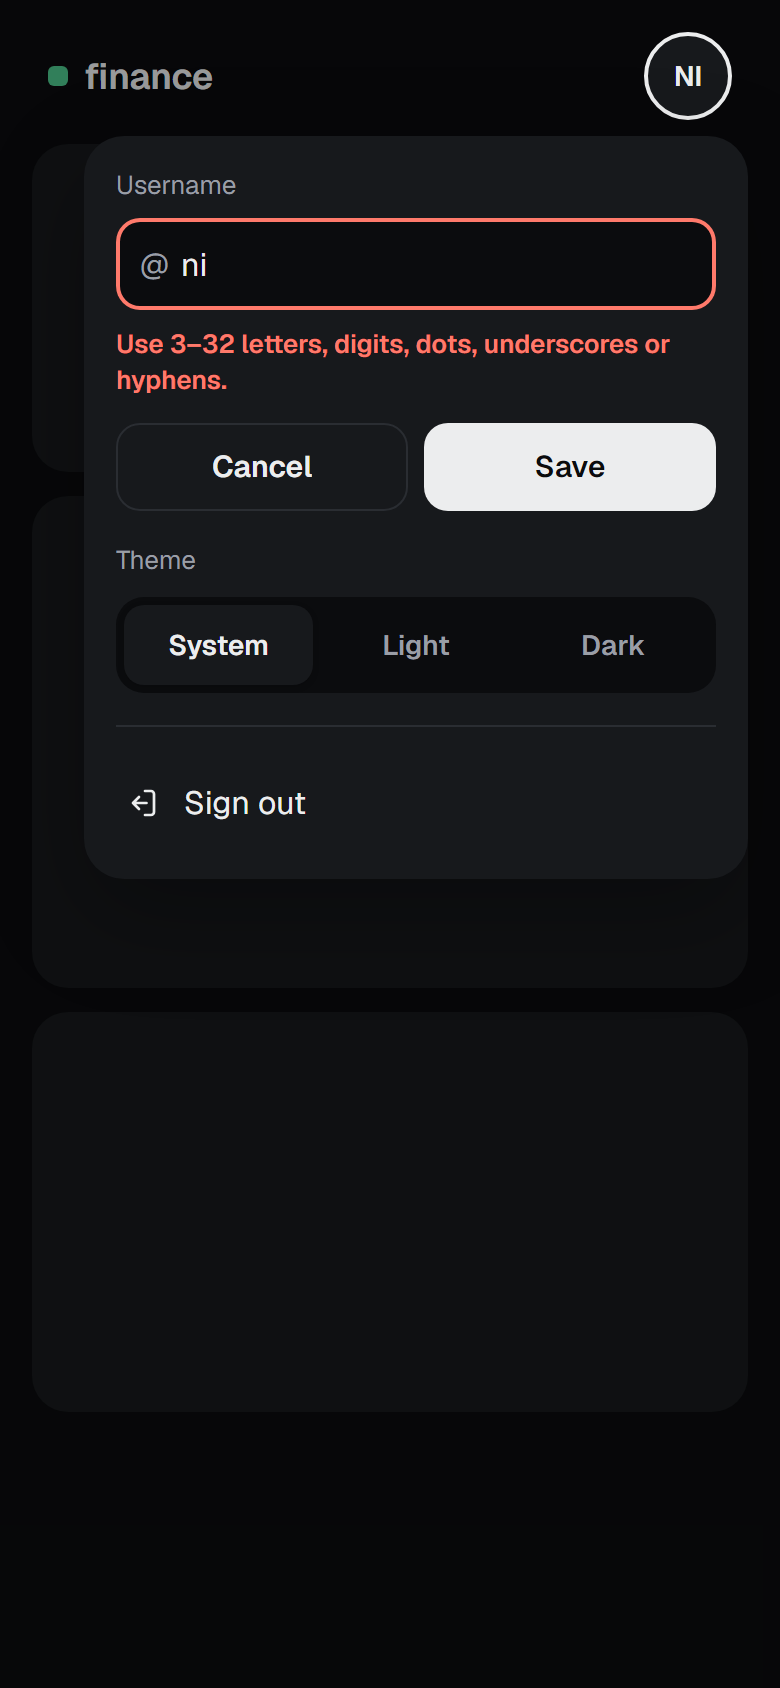
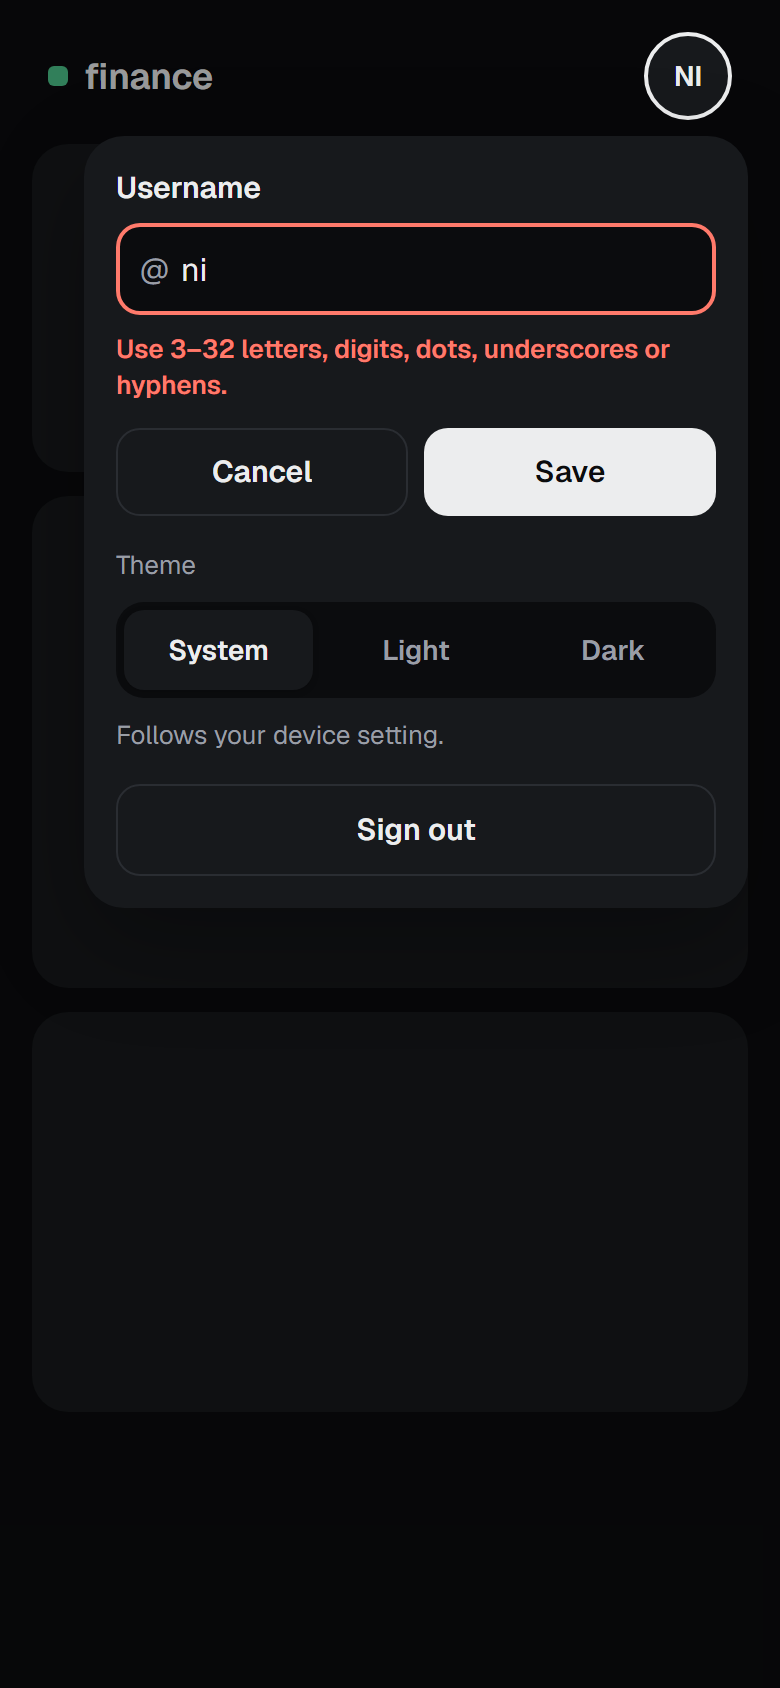
#222: Main currency section, no scrollbars, one username label style
Claude-Session: https://claude.ai/code/session_011ibTqaUA6ACaah6f9ShC86

diff --git a/222/design/Main.dc.html b/222/design/Main.dc.html
@@ -24,12 +24,14 @@ button{cursor:pointer}
     </div>
     <button type="button" style="height: 44px; padding: 0 4px; border: 0; background: transparent; font-size: 14px; color: {{t.muted}}">Sign out</button>
   </div>
-  <div style="padding: 8px 8px 0; display: flex; flex-direction: column; gap: 8px">
+  <div style="padding: 8px 8px 0">
     <h1 style="margin: 0; font-size: 28px; line-height: 1.15; font-weight: 600; letter-spacing: -0.02em">Set up your account</h1>
-    <p style="margin: 0; font-size: 15px; line-height: 1.5; color: {{t.muted}}">Check your username and pick the currency totals are counted in.</p>
   </div>
   <div style="padding: 12px; border-radius: 18px; display: flex; flex-direction: column; gap: 8px; background: {{t.panel}}">
-    <label for="username-a" style="padding: 0 4px; font-size: 13px; color: {{t.muted}}">Username</label>
+    <div style="padding: 0 4px; display: flex; flex-direction: column; gap: 2px">
+      <label for="username-a" style="font-size: 15px; font-weight: 600">Username</label>
+      <p style="margin: 0; font-size: 13px; line-height: 1.4; color: {{t.muted}}">How you appear in finance. You can change it later.</p>
+    </div>
     <div style="{{fieldStyle}}">
       <span aria-hidden="true" style="font-size: 16px; color: {{t.muted}}">@</span>
       <input id="username-a" value="{{username}}" autocomplete="off" spellcheck="false" style="flex-grow: 1; min-width: 0; border: 0; outline: 0; background: transparent; font-size: 16px; color: {{t.text}}">
@@ -37,12 +39,20 @@ button{cursor:pointer}
     <p style="{{hintStyle}}">{{hint}}</p>
   </div>
   <div style="flex-grow: 1; min-height: 0; padding: 12px; border-radius: 18px; display: flex; flex-direction: column; gap: 10px; background: {{t.panel}}">
+    <div style="padding: 0 4px; display: flex; flex-direction: column; gap: 2px">
+      <h2 style="margin: 0; font-size: 15px; font-weight: 600">Main currency</h2>
+      <p style="margin: 0; font-size: 13px; line-height: 1.4; color: {{t.muted}}">Your totals and monthly summaries are shown in it, and your first Wallet opens in it.</p>
+      <p style="margin: 4px 0 0; display: flex; gap: 8px; align-items: flex-start; font-size: 13px; line-height: 1.4; color: {{t.muted}}">
+        <svg aria-hidden="true" width="16" height="16" viewBox="0 0 24 24" fill="none" stroke="currentColor" stroke-width="1.8" stroke-linecap="round" style="flex-shrink: 0; margin-top: 1px"><circle cx="12" cy="12" r="9"/><path d="M12 8v5M12 16.5v.5"/></svg>
+        You can’t change it later. Accounts in other currencies can be added any time.
+      </p>
+    </div>
     <label style="display: flex; align-items: center; gap: 10px; height: 46px; flex-shrink: 0; padding: 0 12px; border-radius: 12px; background: {{t.bg}}">
       <svg aria-hidden="true" width="18" height="18" viewBox="0 0 24 24" fill="none" stroke="{{t.muted}}" stroke-width="1.8" stroke-linecap="round"><circle cx="11" cy="11" r="7"/><path d="m20 20-3.5-3.5"/></svg>
       <span style="position: absolute; width: 1px; height: 1px; overflow: hidden; clip: rect(0 0 0 0)">Search currency</span>
       <input type="search" placeholder="Code or name" style="flex-grow: 1; min-width: 0; border: 0; outline: 0; background: transparent; font-size: 16px; color: {{t.text}}">
     </label>
-    <div role="radiogroup" aria-label="Base currency" style="display: flex; flex-direction: column; overflow-y: auto">
+    <div role="radiogroup" aria-label="Main currency" style="display: flex; flex-direction: column; overflow-y: auto; scrollbar-width: none">
       <sc-for list="{{currencies}}" as="c" hint-placeholder-count="6">
         <button type="button" role="radio" aria-checked="{{c.checked}}" onClick="{{c.pick}}" style="{{c.rowStyle}}">
           <span style="width: 44px; font-family: 'Geist Mono', monospace; font-size: 14px; font-weight: 500; text-align: left">{{c.code}}</span>
@@ -54,10 +64,6 @@ button{cursor:pointer}
       </sc-for>
     </div>
   </div>
-  <p style="margin: 0; padding: 0 8px; display: flex; gap: 8px; align-items: flex-start; font-size: 13px; line-height: 1.4; color: {{t.muted}}">
-    <svg aria-hidden="true" width="16" height="16" viewBox="0 0 24 24" fill="none" stroke="currentColor" stroke-width="1.8" stroke-linecap="round" style="flex-shrink: 0; margin-top: 1px"><circle cx="12" cy="12" r="9"/><path d="M12 8v5M12 16.5v.5"/></svg>
-    The base currency can’t be changed later. The username can.
-  </p>
   <button type="button" style="height: 52px; flex-shrink: 0; border: 0; border-radius: 14px; font-size: 16px; font-weight: 600; background: {{t.text}}; color: {{t.bg}}">Start with {{picked}}</button>
 </div>
 </x-dc>

diff --git a/222/design/onboarding-a-desktop.dc.html b/222/design/onboarding-a-desktop.dc.html
@@ -27,16 +27,14 @@ button{cursor:pointer}
     </div>
     <div style="flex-grow: 1; display: flex; flex-direction: column; justify-content: center; gap: 16px">
       <h1 style="margin: 0; font-size: 40px; line-height: 1.1; font-weight: 600; letter-spacing: -0.03em">Set up your account</h1>
-      <p style="margin: 0; font-size: 17px; line-height: 1.5; color: {{t.muted}}">Check your username and pick the currency totals are counted in. We’ll open a Wallet in this currency.</p>
     </div>
-    <p style="margin: 0; display: flex; gap: 8px; align-items: flex-start; font-size: 14px; line-height: 1.4; color: {{t.muted}}">
-      <svg aria-hidden="true" width="16" height="16" viewBox="0 0 24 24" fill="none" stroke="currentColor" stroke-width="1.8" stroke-linecap="round" style="flex-shrink: 0; margin-top: 1px"><circle cx="12" cy="12" r="9"/><path d="M12 8v5M12 16.5v.5"/></svg>
-      The base currency can’t be changed later. The username can.
-    </p>
   </section>
   <main style="padding: 24px; border-radius: 22px; display: flex; flex-direction: column; gap: 16px; min-height: 0; background: {{t.panel}}">
     <div style="display: flex; flex-direction: column; gap: 8px">
-      <label for="username-ad" style="font-size: 14px; color: {{t.muted}}">Username</label>
+      <div style="display: flex; flex-direction: column; gap: 2px">
+        <label for="username-ad" style="font-size: 15px; font-weight: 600">Username</label>
+        <p style="margin: 0; font-size: 14px; line-height: 1.4; color: {{t.muted}}">How you appear in finance. You can change it later.</p>
+      </div>
       <div style="{{fieldStyle}}">
         <span aria-hidden="true" style="font-size: 16px; color: {{t.muted}}">@</span>
         <input id="username-ad" value="{{username}}" autocomplete="off" spellcheck="false" style="flex-grow: 1; min-width: 0; border: 0; outline: 0; background: transparent; font-size: 16px; color: {{t.text}}">
@@ -44,13 +42,20 @@ button{cursor:pointer}
       <p style="{{hintStyle}}">{{hint}}</p>
     </div>
     <div style="height: 1px; flex-shrink: 0; background: {{t.border}}"></div>
-    <span style="font-size: 14px; color: {{t.muted}}">Base currency</span>
+    <div style="display: flex; flex-direction: column; gap: 2px">
+      <h2 style="margin: 0; font-size: 15px; font-weight: 600">Main currency</h2>
+      <p style="margin: 0; font-size: 14px; line-height: 1.4; color: {{t.muted}}">Your totals and monthly summaries are shown in it, and your first Wallet opens in it.</p>
+      <p style="margin: 4px 0 0; display: flex; gap: 8px; align-items: flex-start; font-size: 14px; line-height: 1.4; color: {{t.muted}}">
+        <svg aria-hidden="true" width="16" height="16" viewBox="0 0 24 24" fill="none" stroke="currentColor" stroke-width="1.8" stroke-linecap="round" style="flex-shrink: 0; margin-top: 1px"><circle cx="12" cy="12" r="9"/><path d="M12 8v5M12 16.5v.5"/></svg>
+        You can’t change it later. Accounts in other currencies can be added any time.
+      </p>
+    </div>
     <label style="display: flex; align-items: center; gap: 10px; height: 48px; flex-shrink: 0; padding: 0 14px; border-radius: 12px; background: {{t.bg}}">
       <svg aria-hidden="true" width="18" height="18" viewBox="0 0 24 24" fill="none" stroke="{{t.muted}}" stroke-width="1.8" stroke-linecap="round"><circle cx="11" cy="11" r="7"/><path d="m20 20-3.5-3.5"/></svg>
       <span style="position: absolute; width: 1px; height: 1px; overflow: hidden; clip: rect(0 0 0 0)">Search currency</span>
       <input type="search" placeholder="Code or name" style="flex-grow: 1; border: 0; outline: 0; background: transparent; font-size: 16px; color: {{t.text}}">
     </label>
-    <div role="radiogroup" aria-label="Base currency" style="flex-grow: 1; min-height: 0; display: grid; grid-template-columns: repeat(2, minmax(0, 1fr)); grid-auto-rows: 52px; gap: 6px; align-content: start; overflow-y: auto">
+    <div role="radiogroup" aria-label="Main currency" style="flex-grow: 1; min-height: 0; display: grid; grid-template-columns: repeat(2, minmax(0, 1fr)); grid-auto-rows: 52px; gap: 6px; align-content: start; overflow-y: auto; scrollbar-width: none">
       <sc-for list="{{currencies}}" as="c" hint-placeholder-count="6">
         <button type="button" role="radio" aria-checked="{{c.checked}}" onClick="{{c.pick}}" style="{{c.rowStyle}}">
           <span style="width: 44px; font-family: 'Geist Mono', monospace; font-size: 14px; font-weight: 500; text-align: left">{{c.code}}</span>

diff --git a/222/design/menu-a-phone.dc.html b/222/design/menu-a-phone.dc.html
@@ -43,7 +43,7 @@ button{cursor:pointer}
     </sc-if>
     <sc-if value="{{editing}}" hint-placeholder-val="{{false}}">
       <form style="display: flex; flex-direction: column; gap: 8px">
-        <label for="username-menu-a" style="font-size: 13px; color: {{t.muted}}">Username</label>
+        <label for="username-menu-a" style="font-size: 15px; font-weight: 600">Username</label>
         <div style="{{fieldStyle}}">
           <span aria-hidden="true" style="font-size: 16px; color: {{t.muted}}">@</span>
           <input id="username-menu-a" value="{{username}}" autocomplete="off" spellcheck="false" style="flex-grow: 1; min-width: 0; border: 0; outline: 0; background: transparent; font-size: 16px; color: {{t.text}}">
@@ -62,12 +62,9 @@ button{cursor:pointer}
         <button type="button" aria-pressed="false" style="height: 40px; border: 0; border-radius: 10px; font-size: 14px; font-weight: 600; background: transparent; color: {{t.muted}}">Light</button>
         <button type="button" aria-pressed="false" style="height: 40px; border: 0; border-radius: 10px; font-size: 14px; font-weight: 600; background: transparent; color: {{t.muted}}">Dark</button>
       </div>
+      <span style="font-size: 13px; color: {{t.muted}}">Follows your device setting.</span>
     </fieldset>
-    <div style="height: 1px; background: {{t.border}}"></div>
-    <button type="button" style="height: 44px; padding: 0 4px; border: 0; display: flex; align-items: center; gap: 12px; font-size: 16px; background: transparent; color: {{t.text}}">
-      <svg aria-hidden="true" width="18" height="18" viewBox="0 0 24 24" fill="none" stroke="currentColor" stroke-width="1.8" stroke-linecap="round" stroke-linejoin="round"><path d="M14 4h4a2 2 0 0 1 2 2v12a2 2 0 0 1-2 2h-4"/><path d="M10 8 6 12l4 4M6 12h9"/></svg>
-      Sign out
-    </button>
+    <button type="button" style="height: 46px; border: 1px solid {{t.border}}; border-radius: 12px; font-size: 15px; font-weight: 600; background: transparent; color: {{t.text}}">Sign out</button>
   </div>
 </div>
 </x-dc>

diff --git a/222/design/menu-a-desktop.dc.html b/222/design/menu-a-desktop.dc.html
@@ -47,7 +47,7 @@ button{cursor:pointer}
     </sc-if>
     <sc-if value="{{editing}}" hint-placeholder-val="{{true}}">
       <form style="display: flex; flex-direction: column; gap: 8px">
-        <label for="username-menu-ad" style="font-size: 13px; color: {{t.muted}}">Username</label>
+        <label for="username-menu-ad" style="font-size: 15px; font-weight: 600">Username</label>
         <div style="{{fieldStyle}}">
           <span aria-hidden="true" style="font-size: 16px; color: {{t.muted}}">@</span>
           <input id="username-menu-ad" value="{{username}}" autocomplete="off" spellcheck="false" style="flex-grow: 1; min-width: 0; border: 0; outline: 0; background: transparent; font-size: 16px; color: {{t.text}}">
